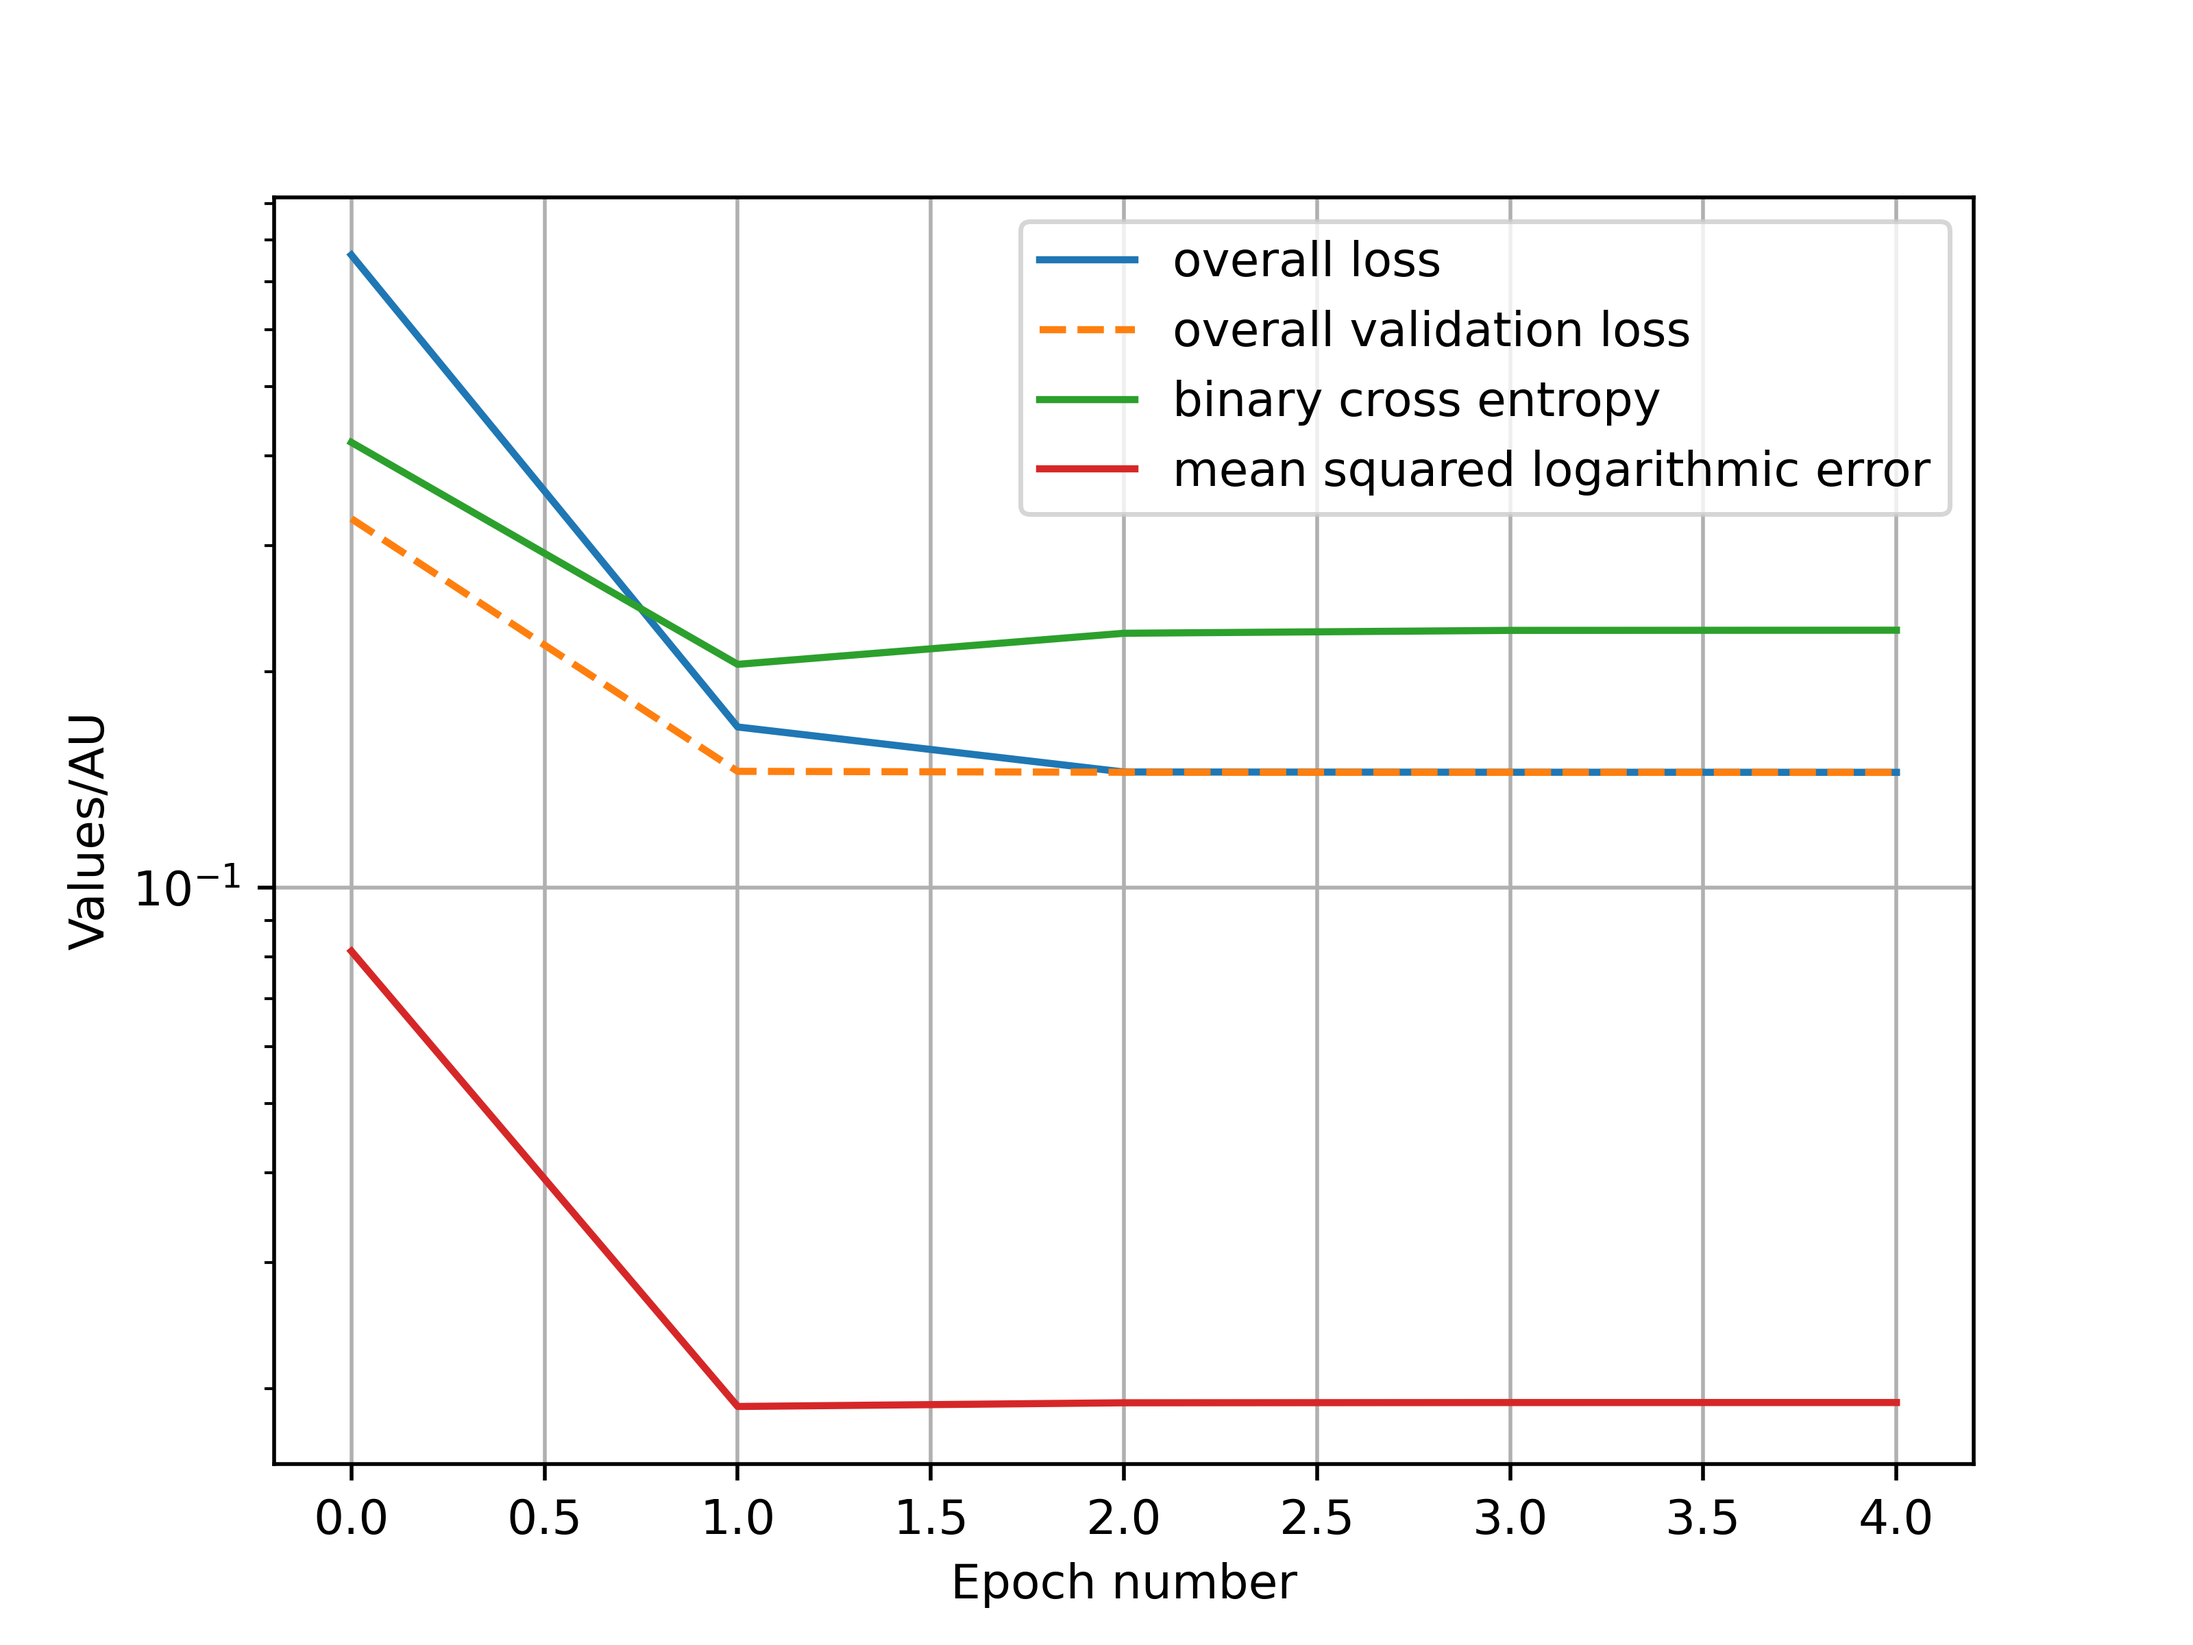
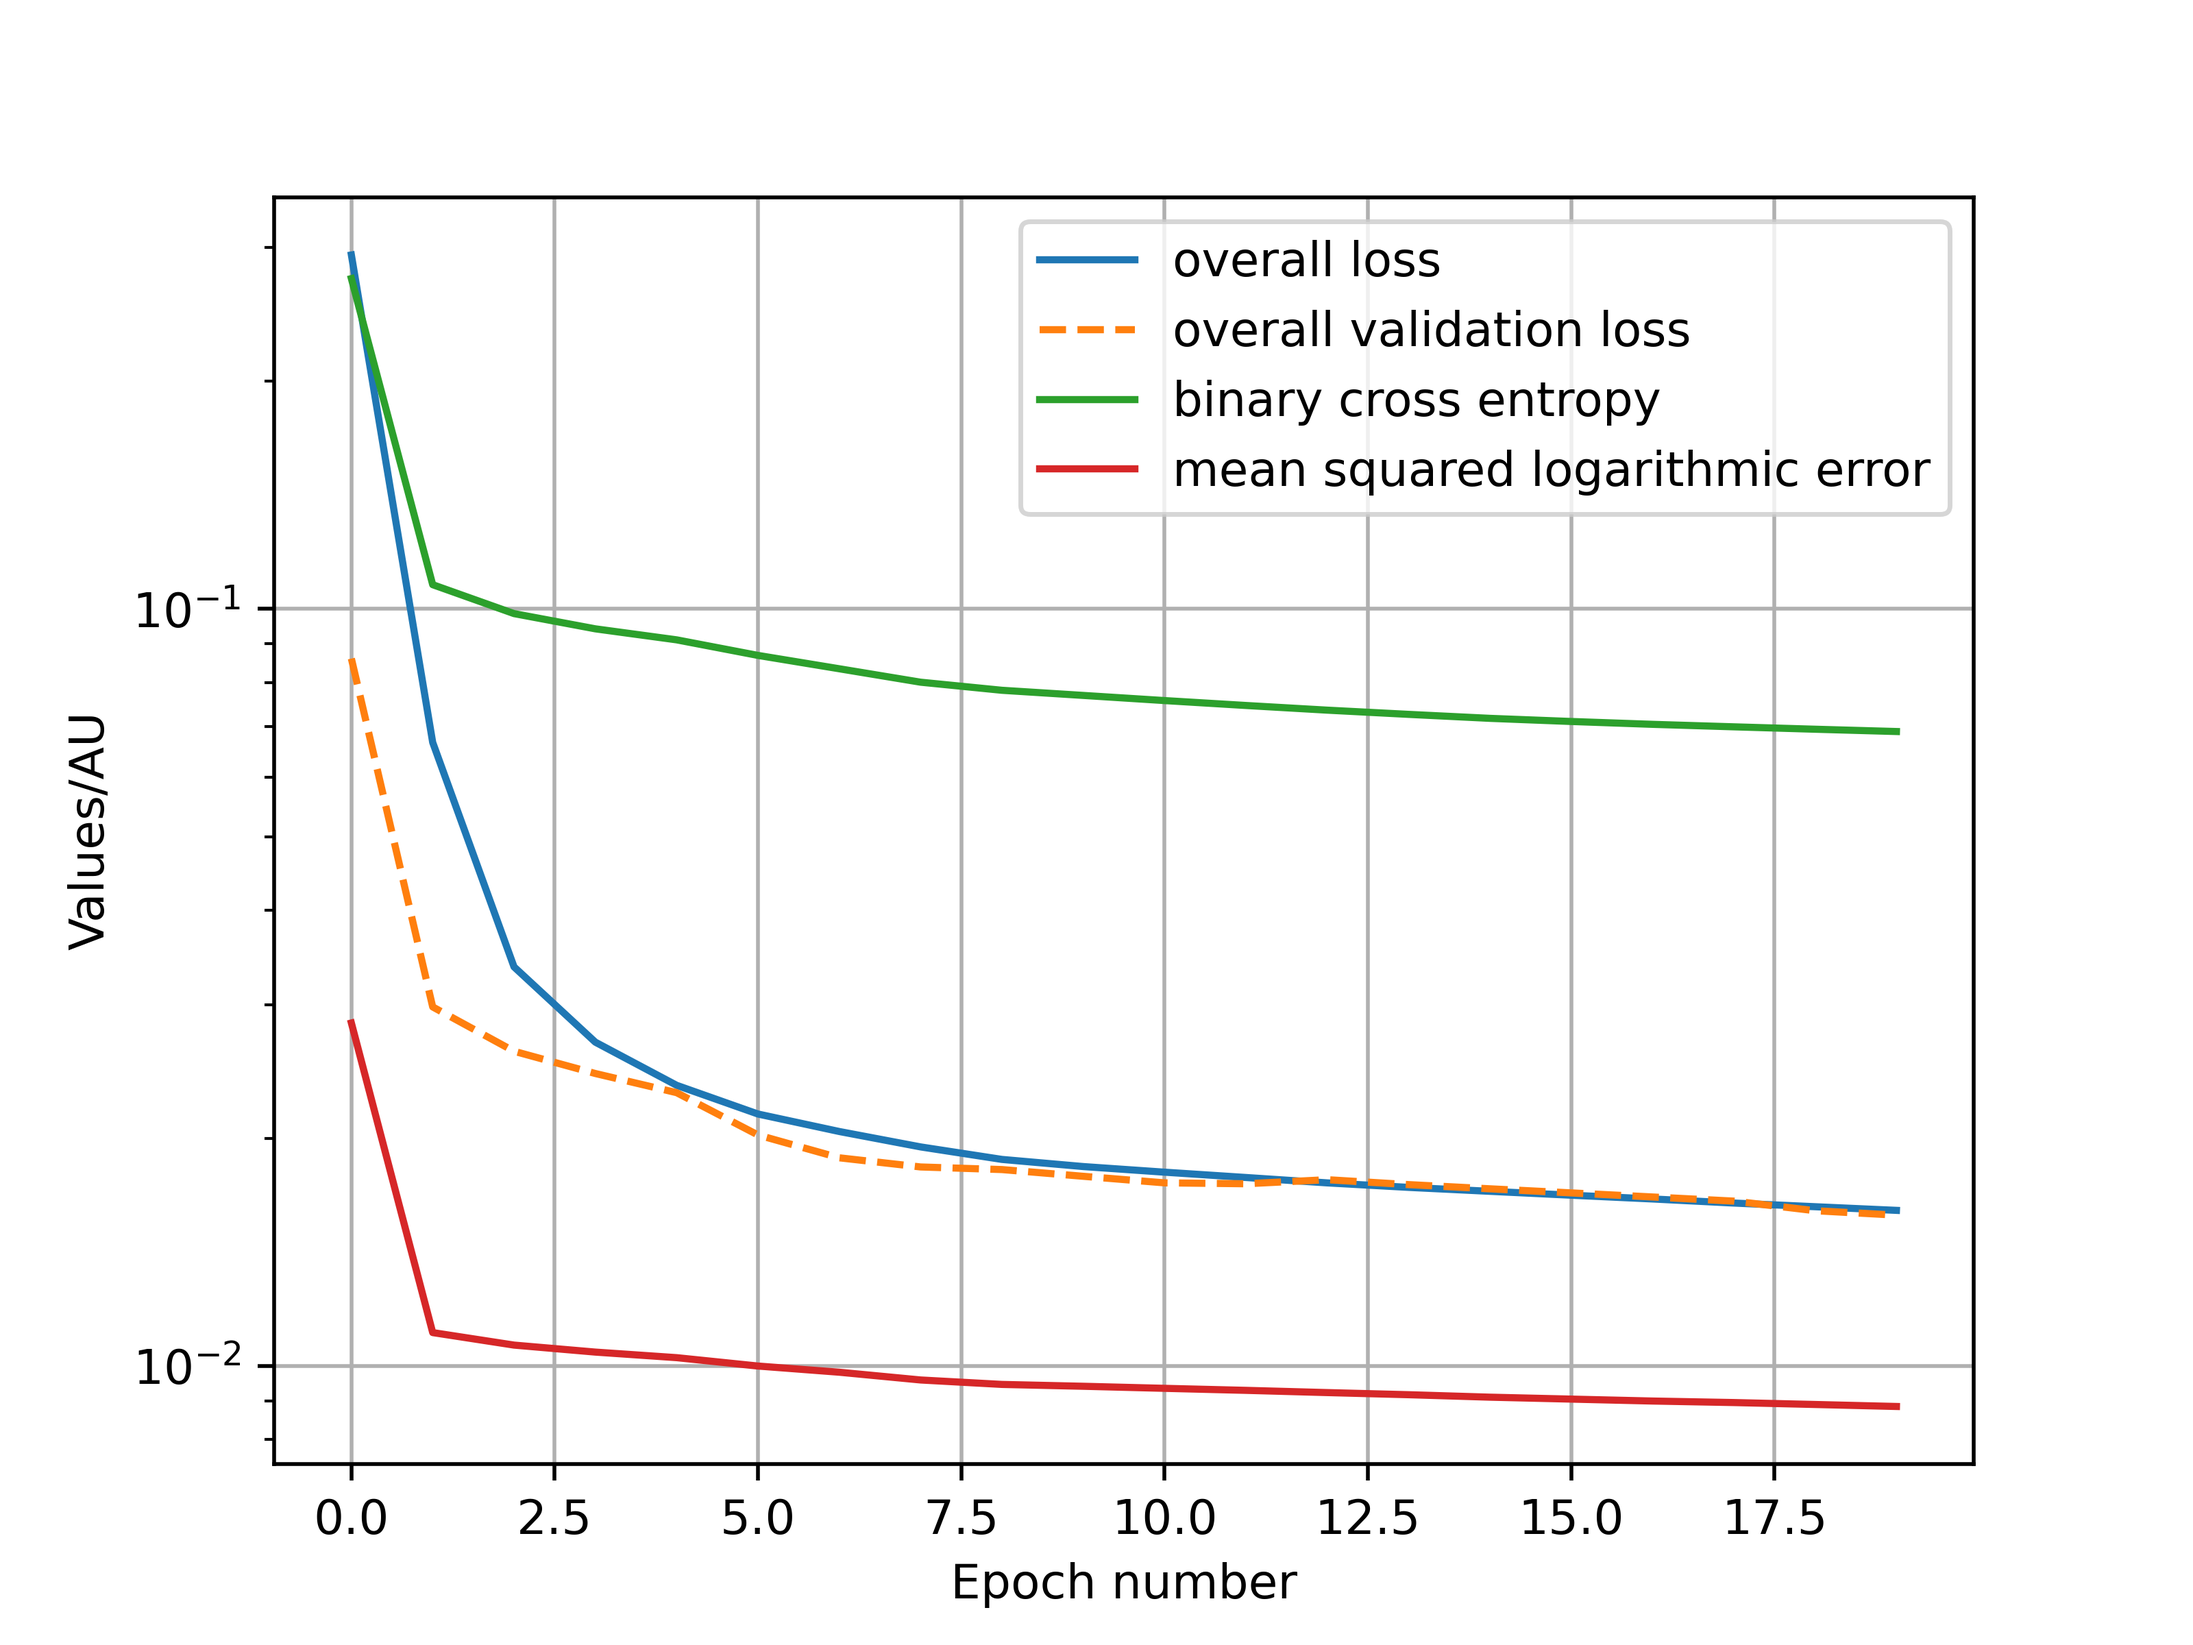
Performed some refinement

diff --git a/model_analysis.py b/model_analysis.py
@@ -84,7 +84,7 @@ def read_parameters(model_name):
 
         [loss_functions.UBERLOSS, 60, 4, 5, True, True, 5, 3, 0.001, [0], True, [0], 5, "Alpha", 20, True],
         [loss_functions.UBERLOSS, 60, 4, 5, True, True, 5, 3, 0.001, [0], True, [0], 5, "Aberdeen", 20, False],
-        [loss_functions.UBERLOSS, 45, 4, 5, True, True, 5, 3, 0.001, [0], True, [0], 5, "Andover", 5, True],
+        [loss_functions.UBERLOSS, 64, 4, 5, True, True, 5, 3, 0.001, [0], True, [0], 5, "Andover", 5, True],
         #
         [loss_functions.UBERLOSS, 45, 3, 10, True, True, 5, 3, 0.001, [0], True, [0], 5, "Bravo", 20, True],
         [loss_functions.UBERLOSS, 45, 3, 10, True, True, 5, 3, 0.001, [0], True, [0], 5, "Bristol", 20, False],
@@ -199,7 +199,7 @@ def generate_predictions(model_name, initial_conditions, length=FUTURE_DISTANCE,
         get_model(model_name),
         initial_conditions[0], initial_conditions[1],
         parameters[2], parameters[12], parameters[1], length, parameters[8],
-        round_result=False, extra=True, dry_run=dry_run
+        dry_run=dry_run
     )
 
 
@@ -391,7 +391,7 @@ def cross_check_easy(model_name, initial_conditions):
 def main():
     to_analyse = [
         # [loss_functions.UBERLOSS, 60, 4, 5, True, True, 5, 3, 0.001, [0], True, [0], 5, "Alpha", 20, True],
-        [loss_functions.UBERLOSS, 60, 4, 5, True, True, 5, 3, 0.001, [0], True, [0], 5, "Andover", 5, True],
+        [loss_functions.UBERLOSS, 64, 4, 5, True, True, 5, 3, 0.001, [0], True, [0], 5, "Andover", 5, True],
         # [loss_functions.UBERLOSS, 60, 4, 5, True, True, 5, 3, 0.001, [0], True, [0], 5, "Aberdeen", 20, False],
         #
         # [loss_functions.UBERLOSS, 45, 3, 10, True, True, 5, 3, 0.001, [0], True, [0], 5, "Bravo", 20, True],

diff --git a/create_network.py b/create_network.py
@@ -522,7 +522,9 @@ def create_parallel_network(activation, optimizer, loss, input_frames, image_siz
         current_axis = image_size
         while current_axis/2 >= encode_size:
             x = layers.Conv2D(32, kernel_size, padding='same', activation=activation)(x)
-            x = layers.Conv2D(32, kernel_size, padding='same', activation=activation)(x)
+            # x = layers.Conv2D(32, kernel_size, padding='same', activation=activation)(x)
+            if inception:
+                x = inception_cell_revive(x, channels)
             x = layers.MaxPooling2D(2)(x)
             current_axis = int(np.floor(current_axis/2))
             final_axis = current_axis
@@ -531,7 +533,7 @@ def create_parallel_network(activation, optimizer, loss, input_frames, image_siz
     x = layers.Conv2D(32 * input_frames, 1, activation=activation)(x)
     while final_axis < image_size:
         x = layers.Conv2DTranspose(64, kernel_size, padding='same', activation=activation)(x)
-        x = layers.Conv2DTranspose(64, kernel_size, padding='same', activation=activation)(x)
+        # x = layers.Conv2DTranspose(64, kernel_size, padding='same', activation=activation)(x)
         x = layers.UpSampling2D(2)(x)
         final_axis *= 2
     x = layers.Conv2D(1, 1, padding='same', activation='sigmoid')(x)

diff --git a/bubble_prediction.py b/bubble_prediction.py
@@ -65,7 +65,12 @@ def calculate_com(image, both=False):
 def main():
     tf.random.set_seed(100)
     activation_function = layers.LeakyReLU()
-    optimizer = optimizers.Adam(learning_rate=0.001, epsilon=0.1)
+    lr_schedule = optimizers.schedules.ExponentialDecay(
+        initial_learning_rate=1e-2,
+        decay_steps=10000,
+        decay_rate=0.9
+    )
+    optimizer = optimizers.Adam(learning_rate=lr_schedule, epsilon=0.1)
     # optimizer = optimizers.Adam()
 
     parameters_extra = [
